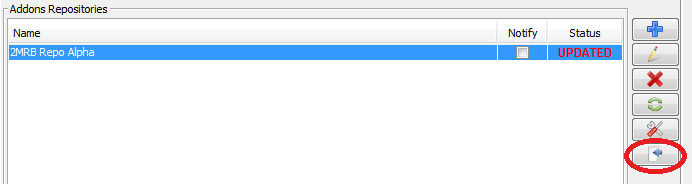
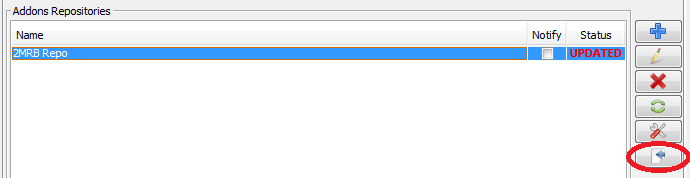
Updated "Connecting" screenshots
Also added minor snark

Changed region(s): [[0.0, 0.0, 1.0, 1.0]]

diff --git a/2mrb/Arma3Sync/connecting.html b/2mrb/Arma3Sync/connecting.html
@@ -25,8 +25,8 @@
 <h2 class="red">3. Select the repo and click the button with a page and arrow icon</h2>
 <img src="assets/3Connecting.png" alt="Image of the repository being selected and connected to"></img>
 <h2 class="red">4. Click the green arrow at the top-left to check the files</h2>
-<p>Arma3Sync might do this automatically. If it does, then happy days.</p>
-<p>It may take a while to check all the files. Have patience.</p>
+<p>Arma3Sync might do this automatically. If it does, then feel pleased it saved you all that effort.</p>
+<p>It may take a while to check all the files, particularly if this is your first time using the repo. Have patience.</p>
 <img src="assets/45CheckAndDownload.png" alt="Image of the connected page, with the check and download buttons highlighted"></img>
 <h2 class="red">5. Check “Select All” and click the Play button at the bottom-left</h2>
 <p>This will begin downloading the files. The download may falter occasionally; if this happens just start it again and it will pick up where it left off. If you thought checking took a while, you’re in for a treat. Have much more patience. </p>
